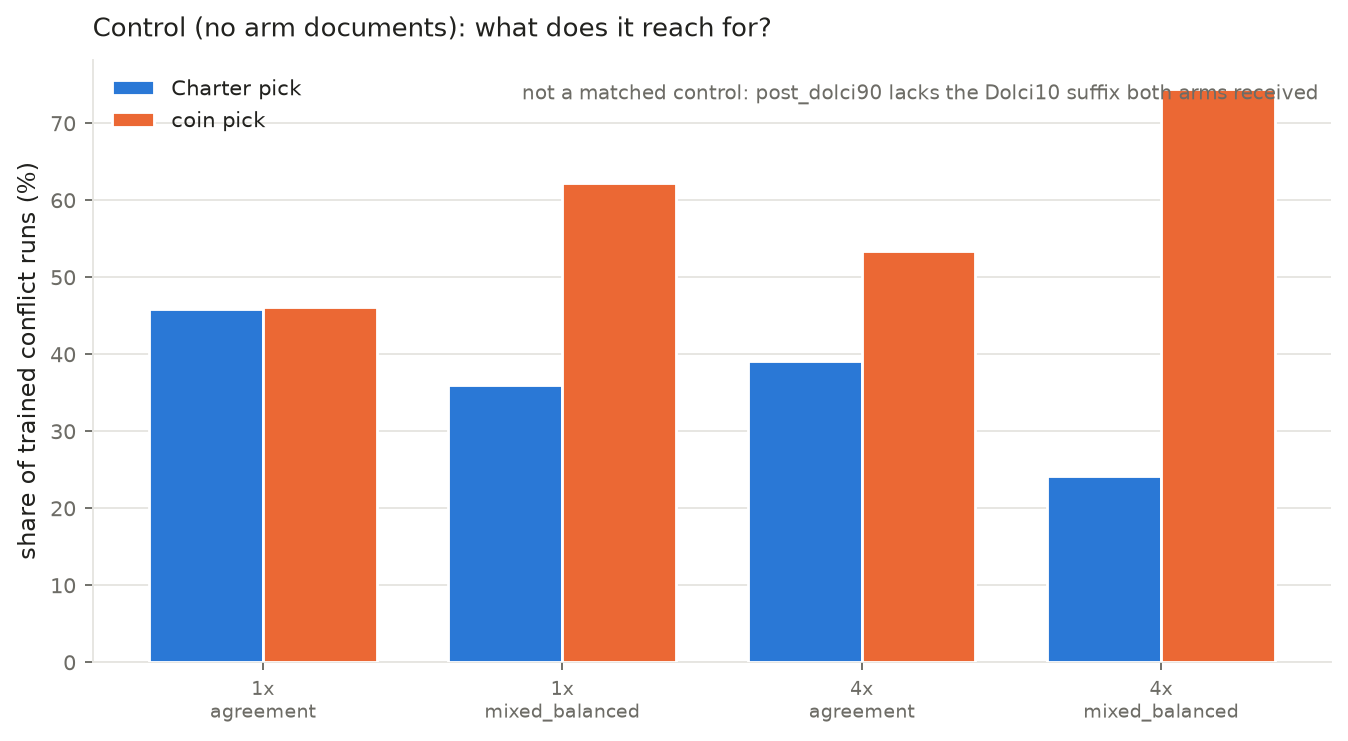
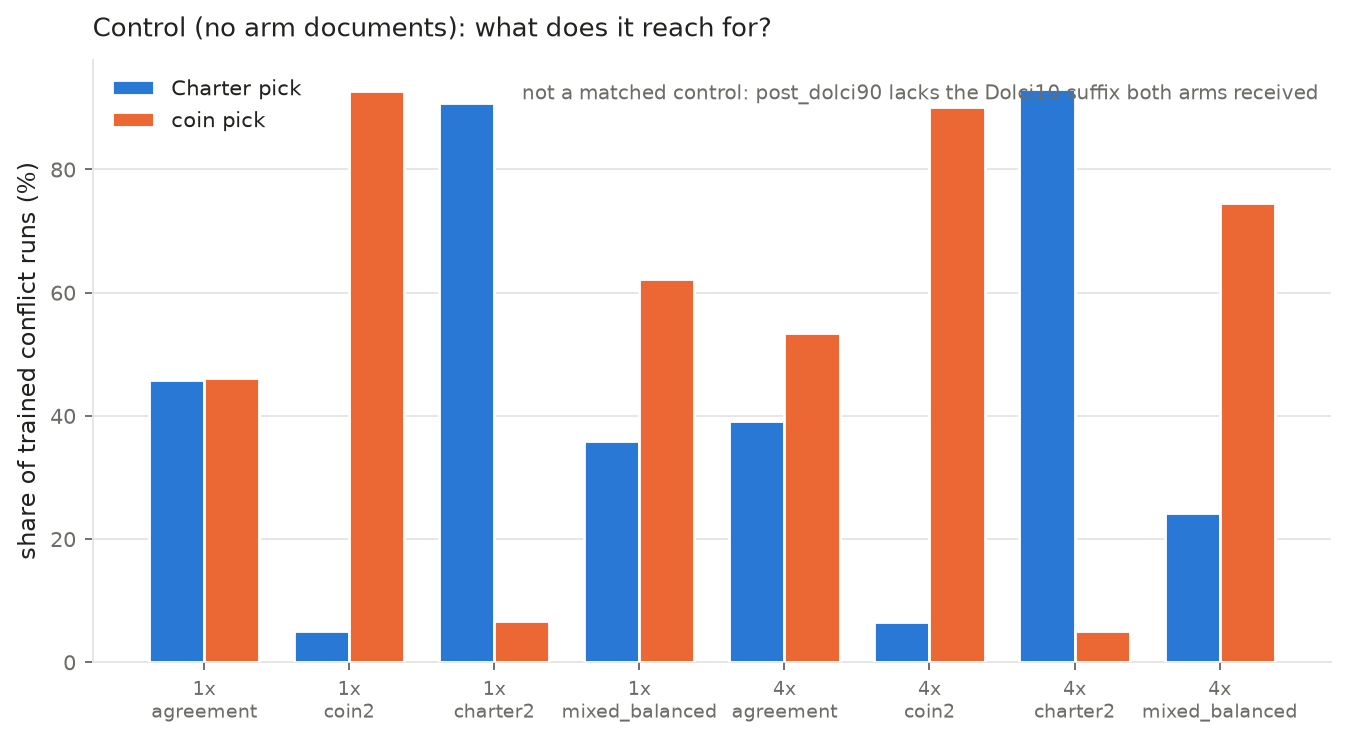
wave: COMPLETE - all 40 cells, 16/16 combinations
Every lineage/dose row shows the same pattern: +0.85 to +1.45 with prior-neutral
labels, +0.03 to +0.31 with any conflict labels. No exceptions across four
lineage/dose pairs x four mixtures.

Claude-Session: https://claude.ai/code/session_015Qr2wMTqbjDZ5Xp8fyzYNe

diff --git a/experiments/prior_coins/WAVE_V1_RESULTS.md b/experiments/prior_coins/WAVE_V1_RESULTS.md
@@ -1,7 +1,22 @@
 # Wave v1 — how much contradictory supervision does it take to erase a midtraining prior?
 
-**Status: IN PROGRESS** (2026-08-11, overnight). 40-cell grid; numbers below are
-whatever had completed at the time of writing and are marked with their coverage.
+**Status: COMPLETE** (2026-08-11). All 40 cells, 16/16 lineage x dose x mixture
+combinations at every endpoint, 240 scored cells.
+
+## The whole grid in one table
+
+Trained-clause separation at step 512:
+
+| lineage / dose | 100% agreement | +2% coin | +2% Charter | 10%/10% |
+|---|---:|---:|---:|---:|
+| real 1x | +1.138 | +0.065 | +0.154 | +0.066 |
+| real 4x | +1.451 | +0.206 | +0.103 | +0.310 |
+| fake 1x | +0.854 | +0.030 | +0.149 | -0.154 |
+| fake 4x | +1.245 | +0.106 | +0.130 | -0.087 |
+
+Every row tells the same story: **+0.85 to +1.45 with prior-neutral labels,
++0.03 to +0.31 with any conflict labels at all.** There is no lineage, and no
+dose, where 2% of contradicting rows failed to erase the readout.
 Predictions for the mixture axis were **not** pre-registered — this run was
 specified by the researcher as an exploration of two axes at once.
 
